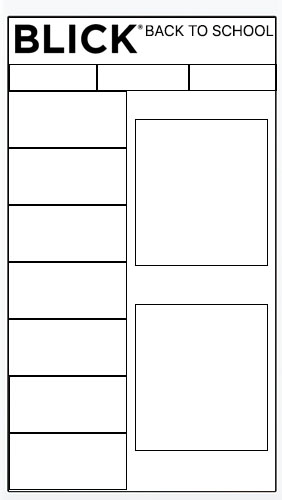
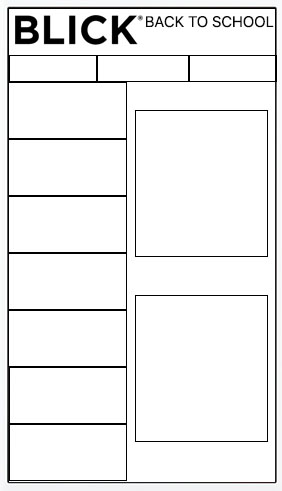
many Blick additions

diff --git a/projects/blick.html b/projects/blick.html
@@ -40,6 +40,8 @@
         <p class="textbox">Card sorting was a challenge that some people seemed to enjoy while others found it infuriating. For many a lot of the artist materials were difficult to understand. There were things like acrylic mediums, gesso, guache, vellum, fixative spray, wire mesh, and plaster of paris. After several users had sorted in 'open card sorts', making up their own categories, I took the time to consolidate their categories, coming up with master categories. Then I had  uers do 'closed card sorts' in which they fit the same cards into those categories as well as they could. This was a way to validate the categories.</p>
         </br>
         <h2 class="callout">We can't assume how our users see the world.</h2>
+        </br>
+        </br>
         <p>In the end I came up with the following sitemap which portrays the architecture of information that I settled on after my user research.</p>
         </br>
         </br>
@@ -49,51 +51,63 @@
         <img src="../images/blick_first_design.jpg" />
         <h2>Designing for Back to School</h2>
         <p>
-          The design process of mobile-first, although for my main user type the desktop size was more important. But I feel it’s important to follow mobile-first design principles, and I started with a basic structure that looked like the below image.
+          The design process was mobile-first, although for my main user type the desktop size was more important. But I feel it’s important to follow mobile-first design principles, and I started with a basic structure that looked like the image to the left.
+        </p>
+        <p>
+          Blick has a lot of features that are great for a back-to-school themed site, like Blick for Educators, Art Room Aid (donations for art classrooms), and “Blick U Class Lists”. I wanted to leave plenty of room in my site for those attractions alongside the main information architecture. The special back-to-school features would be displayed to the right of the product groupings of the left nav.
         </p>
 
       </div>
-      <div class="project content4-hash">
-        <img src="../images/usersBig.png" />
-        <h2>Users</h2>
-        <p>HashTravel App already existed, so in this project one we were able to start with some user testing. These early tests of the existing product let us know what was working and what was not. To be able to start with these insights was invaluable
+      <div class="project content4-blick">
+        <h2>Going to Hi Fidelity</h2>
+        <p class="textbox">In my field research in Blick Stores I notices people meandering and exploring single aisles for long periods, looking and touching. I think it's because the objects of art-making as well as art itself are so beautiful. Blick could use this beauty to greater effect on their site.
         </p>
-        <p>We needed more users though, so we posted a screener/research survey which received 55 responses. From these we contacted 7 for in-depth interviews about travel.
-        </p>
+        <img class="centerimage" src="../images/blick_images_row.jpg" />
       </div>
       <div class="project content5-hash">
-        <img class="centerimage" src="../images/screenersurvey.png" />
+        <img class="centerimage" src="../images/blick_iphone_flatcopy.jpg" />
         </br>
-        <img class="centerimage" src="../images/interviewquotes.png" />
         <p>
-        </br>
-          Interviews with insightful people guided us in our reimagining of HashTravel.
+          A balance between structure and content in the mobile view.
         </p>
       </div>
-      <div class="project content6-hash">
-        <h2>Analysis - Narrowing the Focus</h2>
+      <div class="project content6-blick">
+        <h2>Growing the Design to Desktop Size</h2>
         <div class="textbox">
           <p>
-            Bringing together all of the information we gathered, we created a new structure for HashTravel. Our tools were whiteboards, notebooks, and many Sketch files. We were dealing with an app and a user flow of some complexity and we needed to make sure that our most important user experiences did not get lost in the structure. What was the most important experience? After talking to our users we decided it was sharing stories about travel with each other.
+            Mobile First Design Means that we set priorities and structure at phone size because it's easier to grow than to shrink down a large monitor's worth of content. But there are challenges in using the extra space well at larger sizes. Here are some tablet and desktop views of Blick Back To School.
           </p>
         </div>
-        <img class="centerimage" src="../images/sitemapshot.png" />
+        <img class="centerimage" src="../images/blick_Tablet.jpg" />
+        </br>
+        <img class="centerimage" src="../images/IMAC_mockup_BlickHome.png" />
         </br>
 
       </div>
-      <div class="project content7-hash">
-        <h2>Design and Iterations</h2>
-        <p class="textbox">
-          We worked in successive iterations which we tested with users, gradually refining. Each team member took responsibility for different parts of the user flows, and in the end we brought to gether all our files and refined them with one aesthetic.
+      <div class="project content7-blick">
+        <h2>Checking Out</h2>
+          <p class="textbox">
+           One of the central challenges of ecommerce is the checkout process, which in my research told me could be as many as 7 screens long for some Blick competitors. How to do it efficiently? Can it even be pleasurable for the customer? I think that if a customer appreciates ease of checkout that appreciation can reach the levels of enjoyment.
+          </p>
+          <img class="centerimage" src="../images/blickPhone_checkout.jpg" />
+        <p>
+          5 quick screens from cart to confirmation at phone size.
         </p>
-        <img class="centerimage" src="../images/places_stories_sm.png" />
-      </br>
-        <img class="centerimage" src="../images/cities_versions.png" />
+          <img class="centerimage" src="../images/blick_desk_checkout.jpg" />
+        <p>
+          1 quick checkout screen at desktop size.
+        </p>
 
       </div>
+
       <div class="project content8-hash">
-        </br>
-        <img class="centerimage" src="../images/homepage_desk_shadow.png" />
+        <h2>Full Annotations At All Sizes</h2>
+        <p class="textbox">
+          The brief called for full annotations at all sizes. Below are annotations for phone and tablet.
+        </p>
+        <img class="centerimage" src="../images/blick_phone_annot.jpg" />
+        <img class="centerimage" src="../images/Blick_Tablet_Annotation.jpg" />
+      </br>
 
       </div>
 

diff --git a/style.css b/style.css
@@ -14,7 +14,7 @@ body {
 .grid-project {
   height: 100vh;
   display: grid;
-  grid-template-rows: 110px 850px 1500px 650px 530px 1150px 1150px 1500px 950px 100px;
+  grid-template-rows: 110px 850px 1500px 650px 530px 1150px 1350px 1500px 950px 100px;
   grid-template-columns: 1fr;
 }
 
@@ -174,7 +174,7 @@ a:visited, a:link {
 
 .content3-hash img {
   float: left;
-  padding: 0 70px 0 15px;
+  padding: 0 100px 0 15px;
 }
 
 .content4-hash {
@@ -183,13 +183,21 @@ a:visited, a:link {
   text-align: center;
   background-color: #fff;
   padding: 85px 160px 0 70px;
+  /*display: inline-block;*/
+}
+
+.content4-blick {
+  grid-column-start: 1;
+  grid-column-end: span 1;
+  text-align: center;
+  background-color: #FAE597;
+  padding: 85px 160px 0 70px;
   /*display:flex;*/
   /*justify-content: flex-start;*/
-  display: inline-block;
   /*float: left;*/
 }
 
-.content4-hash img {
+.content4-hash img, .content3-blick img {
   float: left;
   padding: 40px 90px 0 15px;
 }
@@ -213,7 +221,15 @@ a:visited, a:link {
   padding: 75px 70px 70px 30px;
   background-color: #48758A;
   color: #fff;
+}
 
+.content6-blick {
+  grid-column-start: 1;
+  grid-column-end: span 1;
+  text-align: center;
+  padding: 0px 70px 10px 30px;
+  background-color: #fff;
+  color: #222;
 }
 
 .content7-hash {
@@ -223,6 +239,15 @@ a:visited, a:link {
   background-color: #fff;
   padding: 75px 70px 70px 30px;
 }
+
+.content7-blick {
+  grid-column-start: 1;
+  grid-column-end: span 1;
+  text-align: center;
+  background-color: #F2F2F2;
+  padding: 30px 70px 20px 30px;
+}
+
 
 .content8-hash {
   grid-column-start: 1;
@@ -302,8 +327,7 @@ a:visited, a:link {
     position: relative;
     width: 100%;
     left: 18%;
-    margin-top: 55px;
-
+    margin-top: 30px;
 }
 
 #hashtravel_inner {
@@ -324,5 +348,5 @@ a:visited, a:link {
 }
 
 #hashh3 {
-  margin-top: 60px;
+  margin-top: 70px;
 }

diff --git a/mobile.css b/mobile.css
@@ -8,7 +8,7 @@
 .grid-project {
   height: 100vh;
   display: grid;
-  grid-template-rows: 120px 1350px 2100px 1700px 1020px 1650px 2150px 2250px 960px 110px;
+  grid-template-rows: 120px 1350px 2100px 1850px 1020px 1650px 2150px 2250px 960px 110px;
   grid-template-columns: 1fr;
 }
 
